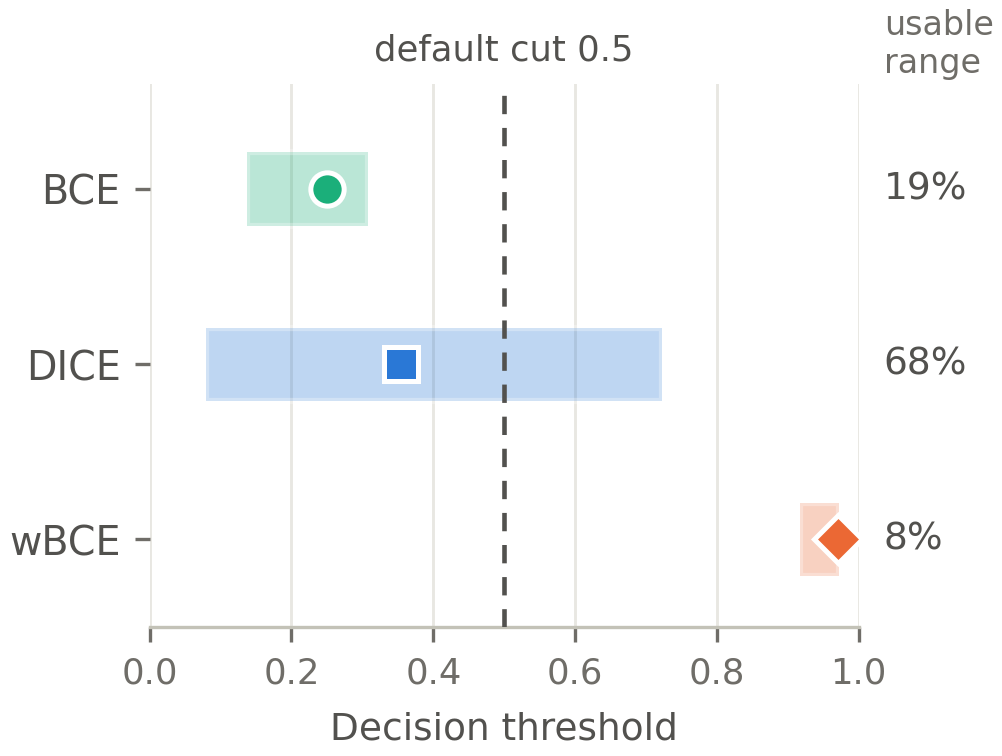
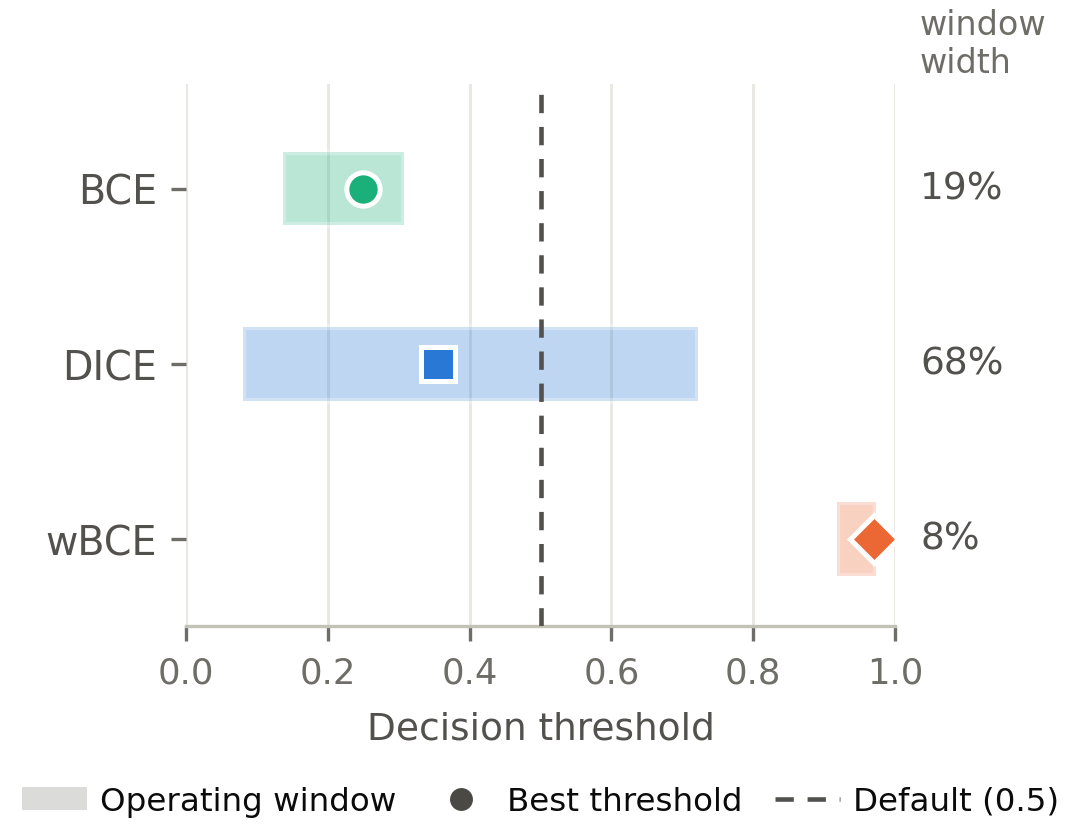
Update title, add legend to Fig. 3, make figure PDFs reproducible, rebuild notebook

diff --git a/src/figures_paper.py b/src/figures_paper.py
@@ -31,6 +31,7 @@ import pandas as pd
 import matplotlib as mpl
 import matplotlib.pyplot as plt
 from matplotlib.lines import Line2D
+from matplotlib.patches import Patch
 
 import config
 import metrics as M
@@ -102,7 +103,12 @@ def _save(fig, stem, quiet=False):
     """
     for ext in ("pdf", "png"):
         p = os.path.join(config.FIGURES, f"{stem}.{ext}")
-        fig.savefig(p, dpi=300, bbox_inches="tight", pad_inches=0.03)
+        # A PDF normally records the moment it was written, so regenerating an
+        # unchanged figure would still change the file and show up in version
+        # control. Dropping the date makes the output reproducible byte for byte.
+        meta = {"CreationDate": None} if ext == "pdf" else None
+        fig.savefig(p, dpi=300, bbox_inches="tight", pad_inches=0.03,
+                    metadata=meta)
     if not quiet:
         print(f"  wrote {stem}.pdf / .png")
     return fig
@@ -253,9 +259,11 @@ def fig_threshold(threshold, stem="paper_fig3_threshold", quiet=False):
     Include at width = \\columnwidth.
 
     The bar is the operating window: the span over which FOM stays within
-    0.02 of that loss's own best. The marker is the optimum. The reader's
-    question is 'does the default cut fall inside the bar', which is a
-    position judgement.
+    0.02 of that loss's own best. The marker is the optimum, the dashed line is
+    the default cut, and the percentage on the right is the width of the bar
+    as a share of all thresholds. The reader's question is 'does the default
+    cut fall inside the bar', which is a position judgement. A legend names
+    the bar, the marker and the dashed line.
     """
     d = (threshold.groupby("loss")
          .agg(lo=("window_lo", "mean"), hi=("window_hi", "mean"),
@@ -279,19 +287,28 @@ def fig_threshold(threshold, stem="paper_fig3_threshold", quiet=False):
                     textcoords="offset points", annotation_clip=False,
                     va="center", fontsize=9, color=INK2)
 
-    ax.annotate("usable\nrange", xy=(1.0, 1.0),
+    ax.annotate("window\nwidth", xy=(1.0, 1.0),
                 xycoords=("data", "axes fraction"),
                 xytext=(6, 1), textcoords="offset points",
                 annotation_clip=False, va="bottom", fontsize=8, color=MUTED)
 
-    # Above the plot, not below it: the space under the axes carries the tick
-    # labels and the axis title, and the top margin is otherwise empty.
     ax.axvline(0.5, color=INK2, lw=1.1, ls=(0, (4, 3)), zorder=3)
-    ax.annotate("default cut 0.5", xy=(0.5, 1.0),
-                xycoords=("data", "axes fraction"),
-                xytext=(0, 4), textcoords="offset points",
-                annotation_clip=False, fontsize=8.5, color=INK2,
-                ha="center", va="bottom")
+
+    # The legend names every mark in the figure. Its handles are neutral grey:
+    # colour and marker shape already tie each bar to its loss through the row
+    # label, and repeating them here would suggest the legend is about one loss.
+    handles = [
+        Patch(facecolor="#9a9892", alpha=0.35, edgecolor="none",
+              label="Operating window"),
+        Line2D([], [], color="#4a4945", marker="o", ls="none", ms=6.5,
+               markeredgecolor=SURFACE, markeredgewidth=1.0,
+               label="Best threshold"),
+        Line2D([], [], color=INK2, lw=1.1, ls=(0, (4, 3)),
+               label="Default (0.5)"),
+    ]
+    ax.legend(handles=handles, loc="upper center", bbox_to_anchor=(0.5, -0.27),
+              ncol=3, fontsize=7.8, handletextpad=0.4, columnspacing=1.0,
+              borderaxespad=0.0)
 
     ax.set_yticks(ys)
     ax.set_yticklabels(ORDER, fontsize=9.5, color=INK2)

diff --git a/README.md b/README.md
@@ -1,4 +1,4 @@
-# Extra Weight on Rare Edge Pixels Makes Coastal Vegetation Line Models Overconfident
+# A Common Training Technique Makes Satellite Coastal Mapping Models Overconfident
 
 [![Paper](https://img.shields.io/badge/Paper-under%20review-lightgrey)](#-citation)
 [![Dataset](https://img.shields.io/badge/Dataset-SIVE%20(Zenodo)-blue)](https://zenodo.org/records/17122999)
@@ -261,7 +261,7 @@ this entry will be updated):
 
 ```bibtex
 @misc{li2026extraweight,
-  title  = {Extra Weight on Rare Edge Pixels Makes Coastal Vegetation Line Models Overconfident},
+  title  = {A Common Training Technique Makes Satellite Coastal Mapping Models Overconfident},
   author = {Li, Yukun and Dey, Prasanjit and Pakrashi, Arjun and Dev, Soumyabrata},
   year   = {2026},
   note   = {Manuscript under review}
